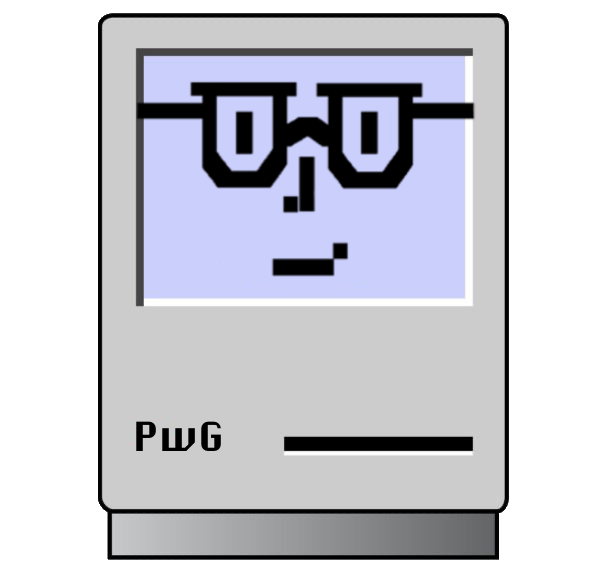
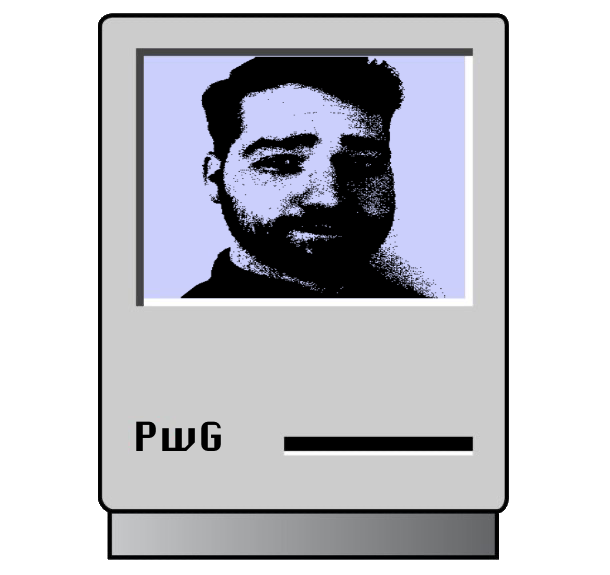
Finishes the Design component

Changed region(s): [[0.218, 0.0887, 0.7787, 0.5322]]

diff --git a/src/App.css b/src/App.css
@@ -133,7 +133,7 @@ nav a.nav-link {
 
 @media(max-width:468px) {
   .profile-img {
-    width: 160px;
+    width: 500px;
   }
 }
 
@@ -144,9 +144,7 @@ nav a.nav-link {
 }
 
 .profile-img {
-  width: 16rem;
-  border-radius: 50%;
-  border: 3px solid var(--primary-orange);
+  height: 400px;
 }
 
 .about-header {
@@ -286,6 +284,41 @@ nav a.nav-link {
   padding: .8px;
   margin: 0 auto;
 }
+
+@media(max-width: 768px) {
+  .design-img-popup {
+    width: 90%;
+    height: 90%;
+  }
+}
+
+@media(max-height: 640px) {
+
+  .image-box-wrapper {
+    height: 100% !important;
+  }
+
+  .design-img-popup {
+    width: 50%;
+    height: 55%;
+  }
+}
+
+@media(max-height: 280px) {
+
+  .image-box-wrapper {
+    height: 100% !important;
+  }
+
+  .design-img-popup {
+    width: 50%;
+  }
+}
+
+
+
+
+
 
 /*********** CONTACT ***********/
 

diff --git a/src/components/AboutMe.js b/src/components/AboutMe.js
@@ -1,5 +1,5 @@
 import React from 'react'
-import me from '../assets/me.png'
+import Mewg from '../assets/Mewg.png'
 
 const AboutMe = () => {
     return (
@@ -7,7 +7,7 @@ const AboutMe = () => {
             <div className='row'>
                 <div className='col-lg-6 col-xm-12'>
                     <div className='photo-wrap mb-5' >
-                        <img className="profile-img" src={me} alt='Me' />
+                        <img className="profile-img" src={Mewg} alt='Me' />
                     </div>
                 </div>
                 <div className='col-lg-6 col-xm-12'>

diff --git a/src/components/Design.js b/src/components/Design.js
@@ -194,7 +194,7 @@ const Design = () => {
     const popupboxConfignutmilklabel = {
         titleBar: {
             enable: true,
-            text: 'Drunken Nut Milk Label'
+            text: ''
         },
         fadeIn: true,
         fadeInSpee: 500
